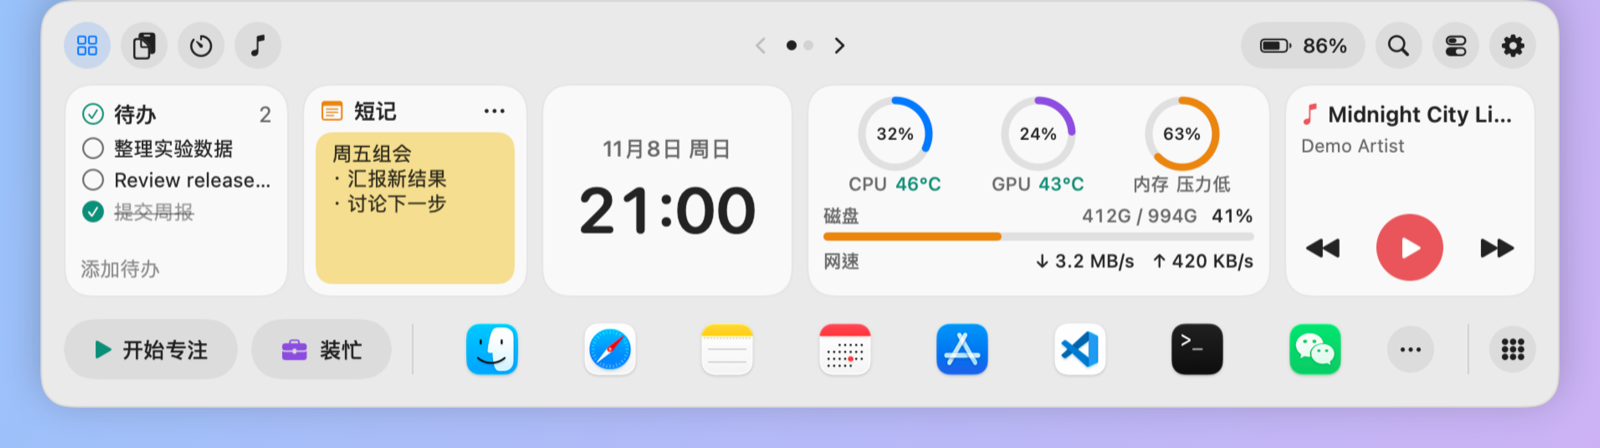
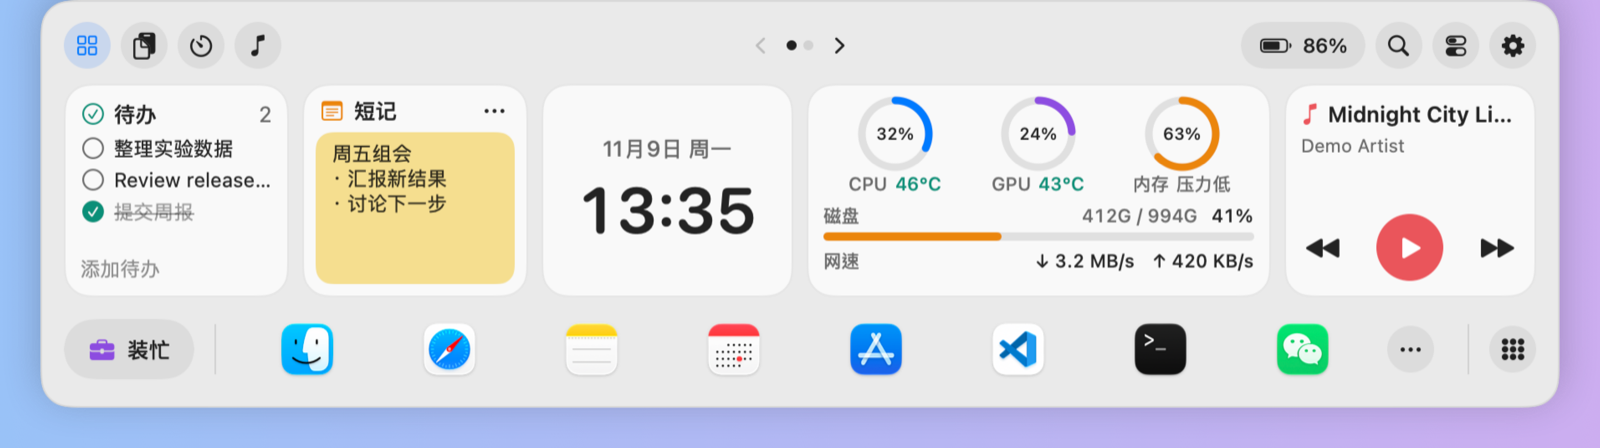
Update the README for recent features
Document today's agenda, the menu bar options, the right-click menu,
audio output, appearance, update reminders and Calendar access, and
retake the three screenshots that no longer matched the app.

diff --git a/README.md b/README.md
@@ -11,8 +11,8 @@ English · [简体中文](README.zh-CN.md)
 </div>
 
 NotchDeck is a small native macOS menu bar app written in Swift and SwiftUI. Click its menu bar icon, or press
-**⌥⌘N**, and a panel opens with your todos, system stats, clipboard history, timers, music controls and quick
-system toggles. It has no Dock icon and needs no account.
+**⌥⌘N**, and a panel opens with your todos, today's agenda, system stats, clipboard history, timers, music controls
+and quick system toggles. It has no Dock icon and needs no account.
 
 ![NotchDeck home page](docs/media/home.png)
 
@@ -32,21 +32,30 @@ The screenshots use made-up demo data and show the Chinese interface. Other lang
 
 ## Features
 
-- **Home cards**: todos, sticky note, clock, system monitor, music, clipboard, timer, month calendar and Look Busy.
-  Reorder, hide or move them across two pages.
+- **Home cards**: todos, today's agenda, sticky note, clock, system monitor, music, clipboard, timer, month calendar
+  and Look Busy. Reorder, hide or move them across two pages.
+- **Today's agenda**: upcoming events from the system Calendar, a countdown to the next one, and a join button for
+  Zoom, Google Meet, Teams, Webex, Tencent Meeting, Feishu and DingTalk links.
 - **System monitor**: CPU, GPU, battery and SSD temperatures, power draw, memory pressure, swap, disk usage, upload
-  and download speed, top processes, and 10-minute history charts. The CPU temperature can also be shown in the menu
-  bar.
+  and download speed, top processes, and 10-minute history charts. CPU, GPU and temperature readings are smoothed so
+  they are easier to read.
+- **Menu bar**: show any mix of temperature, CPU load, network speed and battery next to the icon. Right-click the
+  icon for search, clipboard, the monitor, audio output, a quick countdown, keep awake, Look Busy, display sleep, screen
+  lock and update checks.
 - **Clipboard history**: text, images and files, with search and pinning. Items marked as sensitive by password
-  managers are skipped. History stays in memory unless you turn on saving; images are never written to disk.
+  managers are skipped. Text over about 1 MB is not recorded. History stays in memory unless you turn on saving;
+  images are never written to disk.
 - **Timers**: countdown, stopwatch with laps, and a 25-minute focus timer.
 - **Music**: now-playing title, artwork, progress, playback controls and system volume.
 - **Search**: apps, files (through Spotlight), todos, notes and clipboard history, with a web search fallback.
-- **Quick controls**: Wi-Fi, Bluetooth, dark mode, Night Shift, keep awake, mute, volume, brightness, screenshot, display
-  sleep and lock screen, plus battery levels for connected Bluetooth devices.
+- **Quick controls**: Wi-Fi, Bluetooth, dark mode, Night Shift, keep awake, mute, audio output, volume, built-in display
+  brightness, screenshot, display sleep and lock screen, plus battery levels for connected Bluetooth devices.
 - **Reminders sync** (optional): use a list from the system Reminders app as your todo card.
 - **Look Busy**: four convincing full-screen work scenes for demos and screenshots. Nothing they show is real.
+- **Appearance**: light, dark or follow the system.
 - **Languages**: Simplified and Traditional Chinese, English, Japanese, Korean, French, German and Spanish. Switch in Settings without restarting.
+- **Update reminders**: checks GitHub for a new release once a day and tells you when one is available. It only reads
+  the version number, and you can turn it off in Settings.
 
 ## Keyboard shortcuts
 
@@ -56,6 +65,8 @@ The screenshots use made-up demo data and show the Chinese interface. Other lang
 | ⌃⌥V | Open or close the clipboard page |
 | ⌃⌥B | Start or stop Look Busy |
 | Esc | Close the panel or leave Look Busy |
+
+Right-click or Control-click the menu bar icon to open the shortcut menu.
 
 ## Install
 
@@ -88,8 +99,9 @@ NotchDeck only asks when you turn on a feature that needs it:
 
 - **Bluetooth**: for the Bluetooth toggle and device battery levels.
 - **Reminders**: for Reminders sync. Turning sync on moves your unfinished local todos into the selected list.
+- **Calendar**: for the agenda card. NotchDeck only reads your events.
 
-The app is ad-hoc signed, so macOS may ask for these permissions again after you rebuild it.
+The app is ad-hoc signed, so macOS may ask for these permissions again after an update or rebuild.
 
 Do Not Disturb has no public API. To link it with the focus timer, create two Shortcuts named `NotchDeck 专注开始` and
 `NotchDeck 专注结束`, and NotchDeck will run them when a focus session starts and ends.
@@ -99,6 +111,7 @@ Do Not Disturb has no public API. To link it with the focus timer, create two Sh
 - Temperatures, now-playing data, dark mode, Night Shift, brightness, Bluetooth power and screen lock rely on private
   macOS interfaces. They can stop working after a system update, and the app cannot be distributed through the Mac App
   Store.
+- The brightness slider only controls the built-in display.
 - So far it has only been run on an Apple silicon Mac with macOS 27. Sensor names can differ on other models.
 
 ## License
